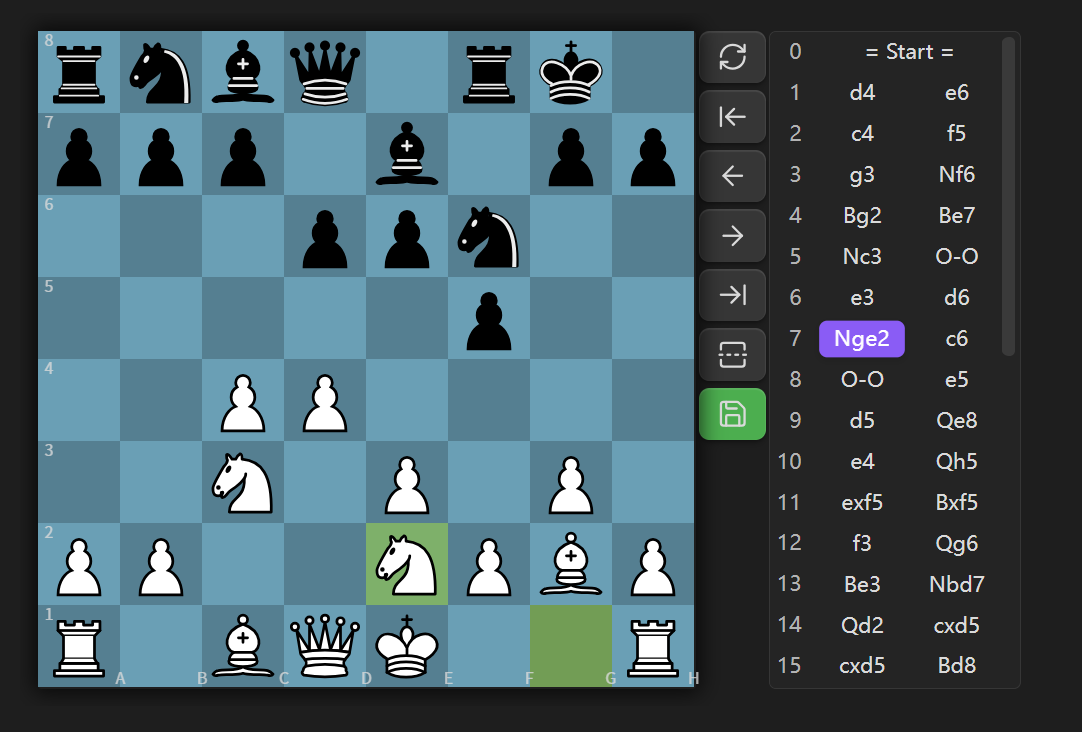
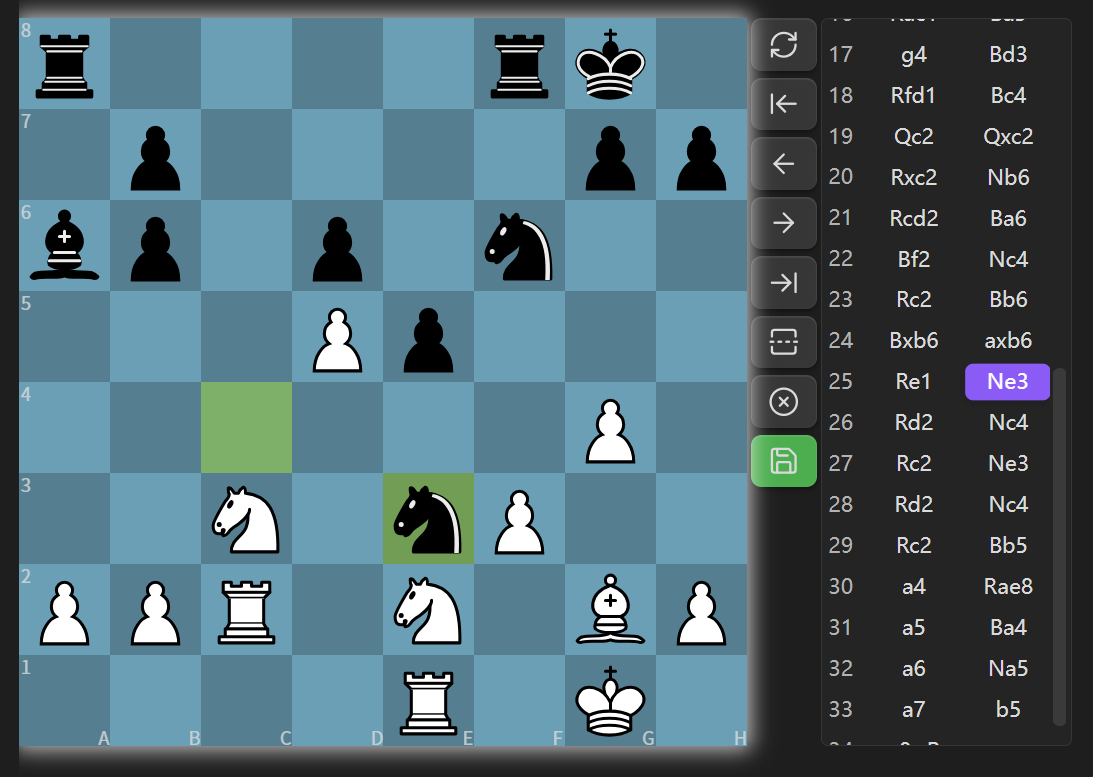
docs: update README images and content for v1.4.0

diff --git a/README.md b/README.md
@@ -2,6 +2,7 @@
 
 ![Version](https://img.shields.io/github/v/release/west-shell/obsidian-chess-tree)
 [![License](https://img.shields.io/github/license/west-shell/obsidian-chess-tree)](./LICENSE)
+[![PayPal](https://img.shields.io/badge/PayPal-Sponsor-blue?logo=paypal)](https://paypal.com/paypalme/weshell1988)
 
 [中文](./README.zh.md) | [English](./README.md)
 
@@ -11,7 +12,7 @@ Likes, coins, and feedback are greatly appreciated.
 
 ## Overview
 
-Obsidian plugin providing chess rendering and exploration inside notes. Supports PGN file viewing, three code block types (`chess`, `fen`, `tree`), full chess rules via [chess.js](https://github.com/jhlywa/chess.js), interactive board via [chessground](https://github.com/lichess-org/chessground), and variation tree visualization.
+Obsidian plugin for chess rendering and exploration inside notes. Supports PGN file viewing, three code block types (`chess`, `fen`, `tree`), full chess rules via [chess.js](https://github.com/jhlywa/chess.js), interactive board via [chessground](https://github.com/lichess-org/chessground), and variation tree visualization.
 
 ## PGN File Support
 
@@ -23,6 +24,7 @@ Open `.pgn` files directly in Obsidian — the plugin registers a dedicated `.pg
 - **Mode Toggle**: Switch between icon mode and text mode in branch diagram
 - **Quick Create**: New PGN files from the ribbon button
 - **Custom File Types**: Set specific file types as PGN files
+- **Context Menu**: Right-click PGN files to switch between PGN view and Markdown view
 
 > **Note**: `.pgn` files only support single games. For multi-game PGN files, use AI to add code block markers and convert to Markdown format:
 >
@@ -38,12 +40,11 @@ Open `.pgn` files directly in Obsidian — the plugin registers a dedicated `.pg
 > ```
 > ````
 
-![PGN File](./IMAGE/Tree.png)
+![PGN File](./IMAGE/PGN.en.png)
 
 ## Code Blocks
 
-Three code block types:
-All code block names are customizable
+Three code block types — all code block names are customizable.
 
 ---
 
@@ -69,7 +70,7 @@ All code block names are customizable
 ```
 ````
 
-![FEN Editor](./IMAGE/GenFEN.png)
+![FEN Editor](./IMAGE/fen.en.png)
 
 ---
 
@@ -88,6 +89,32 @@ All code block names are customizable
 ---
 
 ## Settings
+
+### Board Appearance
+
+- **Theme**: Wood, Green, Blue, Grey, Dark, Light
+- **Cell Size**: Adjustable board cell size (15–100 px)
+- **Layout**: Toolbar position — right / bottom
+- **Coordinate Labels**: Show/hide board coordinates
+
+### Game Hints
+
+- **Last Move Highlight**: Highlight the last move on the board
+- **Legal Moves**: Show legal move destinations
+- **Turn Border**: Highlight the current player's turn
+- **Move Narration**: Optional speech synthesis for moves (desktop only)
+
+### Move List
+
+- **Show Move List**: Toggle move list visibility
+- **Show Move Text**: Toggle text notation in move list
+- **Font Size**: Adjustable move text size (10–25 px)
+- **Auto Jump**: Jump to latest position — never / always / auto
+
+### Board Margins
+
+- **Top Margin**: Adjustable top margin (0–100 px)
+- **Bottom Margin**: Adjustable bottom margin (0–100 px)
 
 ### Code Block Names
 
@@ -119,13 +146,7 @@ Enable/disable PGN file view and customize file extensions:
 - **PGN Saving**:
   - Button colors — **gray** (empty), **green** (saved), **orange** (modified)
   - Confirmation dialog before saving
-- **Customizable Settings**:
-  - Board themes: Wood, Green, Blue, Grey, Dark, Light
-  - Toolbar position: right / bottom
-  - Adjustable board size and move text size
-  - Move list display options
-  - Auto-jump to end
-  - Optional move narration (desktop only)
+- **i18n**: Supports English and Chinese UI
 - **Board Markers**: Draw arrows and highlights on the board
 - **Mobile Friendly**: Adjust board size for small screens
 
@@ -147,6 +168,13 @@ Enable/disable PGN file view and customize file extensions:
    - After making moves, the list shows your modified sequence
    - Click **Reset** to revert to before manual edits
 4. Click **Save** to overwrite the original PGN
+
+### `tree` Code Block
+
+1. Write your game inside a `tree` code block (same format as `chess`)
+2. The variation tree displays all branches graphically
+3. Click any node to navigate to that position
+4. Switch between icon mode and text mode for node labels
 
 ### Optional Parameters
 
@@ -193,4 +221,7 @@ npm run build:min    # Minified build (for release)
 ## Donation
 
 If you like this plugin, feel free to support me!
+
+[![PayPal](https://img.shields.io/badge/PayPal-Sponsor-blue?logo=paypal)](https://paypal.com/paypalme/weshell1988)
+
 ![Donation](./IMAGE/打赏.png)
